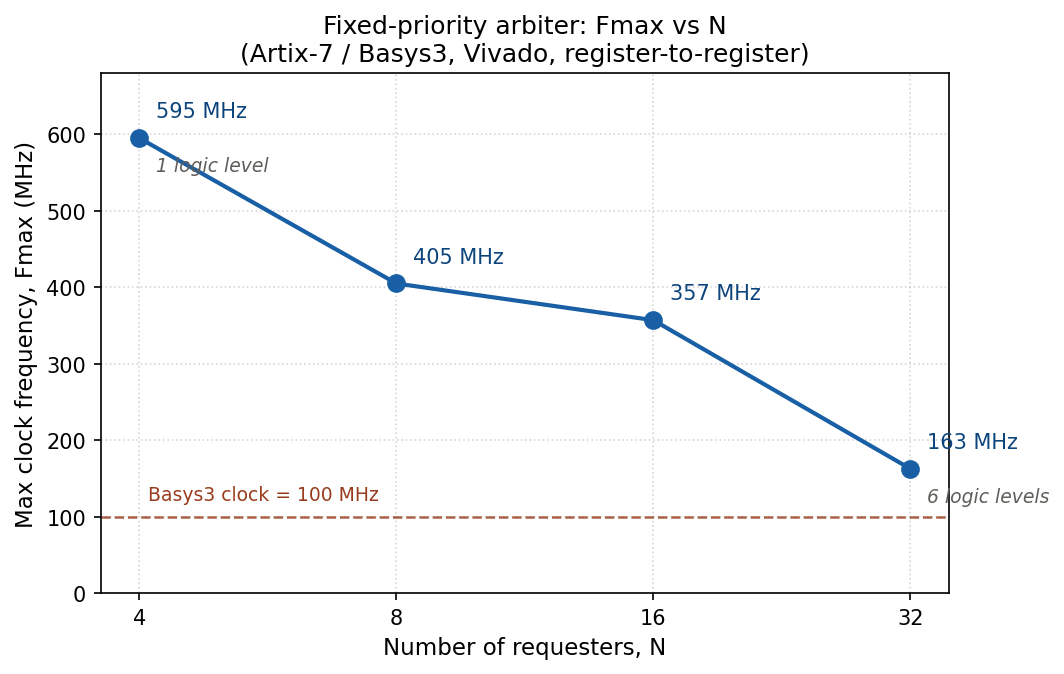
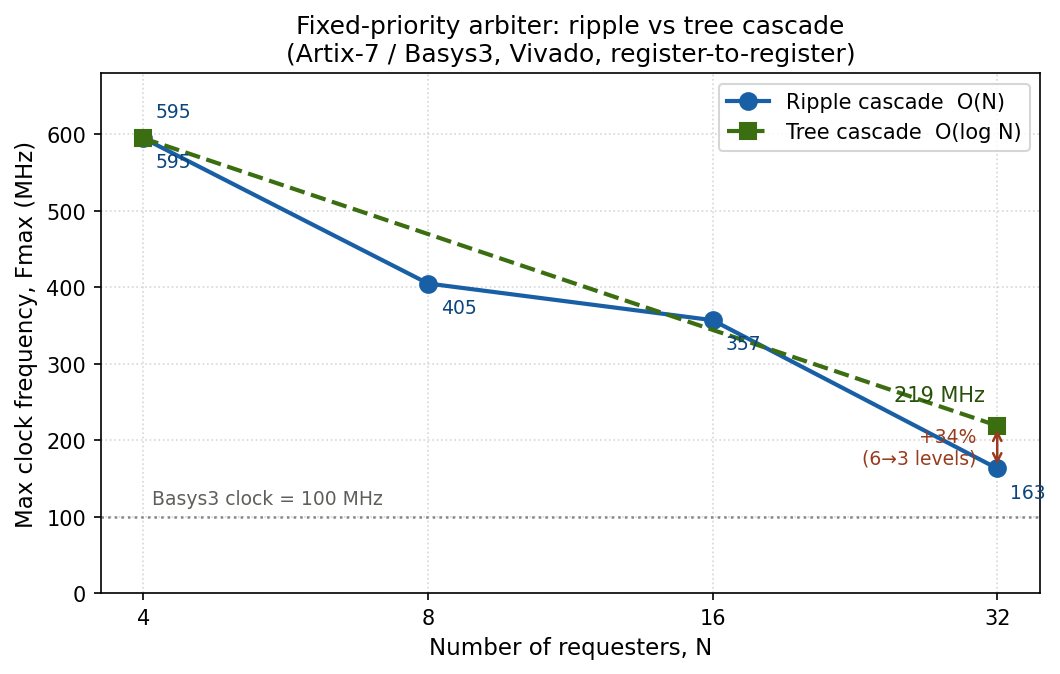
Phase 3: Kogge-Stone prefix-tree cascade (6->3 levels, +34% Fmax at N=32)

diff --git a/README.md b/README.md
@@ -1,6 +1,6 @@
 # fpga-arbiters
 
-Parameterizable hardware arbiters in SystemVerilog for the Xilinx Basys3 (Artix-7), working from a combinational fixed-priority design up to round-robin, with self-checking testbenches and real static-timing characterization.
+Parameterizable hardware arbiters in SystemVerilog for the Xilinx Basys3 (Artix-7), working from a combinational fixed-priority design up to round-robin, with self-checking testbenches, real static-timing characterization, and an O(log N) prefix-tree optimization.
 
 ![SystemVerilog](https://img.shields.io/badge/SystemVerilog-IEEE%201800-blue)
 ![Tool](https://img.shields.io/badge/tool-Vivado-orange)
@@ -12,7 +12,8 @@ Parameterizable hardware arbiters in SystemVerilog for the Xilinx Basys3 (Artix-
 
 - Parameterizable `N`-input fixed-priority arbiter (`rtl/fixed_priority_arbiter.sv`) — purely combinational.
 - Parameterizable `N`-input round-robin arbiter (`rtl/round_robin_arbiter.sv`) — reuses the fixed-priority block twice around a one-hot pointer register; fair, no starvation.
-- One-hot-or-zero grant invariant on both designs, checked automatically in the testbenches.
+- Kogge-Stone parallel-prefix variant (`rtl/fixed_priority_arbiter_tree.sv`) — O(log N) depth, exhaustively equivalence-checked against the ripple version.
+- One-hot-or-zero grant invariant on all designs, checked automatically in the testbenches.
 - Self-checking testbenches (combinational and clocked) running in Vivado XSim.
 - Static timing analysis on Artix-7 — Fmax and bandwidth characterized across N.
 
@@ -48,7 +49,7 @@ Round-robin — under constant demand (`req = 1111`) the grant rotates `r0 → r
 
 ![Round-robin arbiter waveform](docs/images/round_robin_arbiter.png)
 
-## Results — fixed-priority arbiter
+## Results
 
 Characterized on Artix-7 in Vivado by registering the I/O around the combinational arbiter and reading setup **WNS** against a 100 MHz constraint. `Fmax = 1000 / (10 − WNS)`. Full write-up: [docs/notes/03-timing-analysis.md](docs/notes/03-timing-analysis.md).
 
@@ -61,7 +62,7 @@ Characterized on Artix-7 in Vivado by registering the I/O around the combination
 
 ![Fmax vs N](docs/images/fmax_vs_n.png)
 
-Fmax falls as N grows — the O(N) priority cascade lengthening the critical path. Bandwidth (1 grant/cycle × a 32-bit word) ranges from ~19.0 Gbit/s aggregate at N=4 down to ~5.2 Gbit/s at N=32.
+Fmax falls as N grows — the O(N) priority cascade lengthening the critical path. Re-coding the cascade as an **O(log N) Kogge-Stone prefix tree** (equivalence-checked) halves the depth at N=32 (6 → 3 logic levels) and raises Fmax from 163 MHz to **219 MHz (~34%)**. Bandwidth (1 grant/cycle × a 32-bit word) ranges from ~19.0 Gbit/s aggregate at N=4 down to ~5.2 Gbit/s at N=32.
 
 **Fairness cost (N=4):** round-robin raises the critical path from 1.68 ns to 3.04 ns, cutting Fmax from ~595 MHz to ~330 MHz (~45%). The extra delay is the mask + output mux that round-robin layers on the shared cascade — fixed priority is faster but starves; round-robin is fair but slower.
 
@@ -69,14 +70,14 @@ Fmax falls as N grows — the O(N) priority cascade lengthening the critical pat
 
 **Vivado GUI**
 1. Add `rtl/` as design sources and `tb/` as simulation sources.
-2. Set the testbench you want to run (`tb_fixed_priority_arbiter` or `tb_round_robin_arbiter`) as the simulation-set top.
+2. Set the testbench you want to run as the simulation-set top (e.g. `tb_round_robin_arbiter`, `tb_arbiter_equiv`).
 3. Flow Navigator -> Run Simulation -> Run Behavioral Simulation.
 
 **Command line (Vivado XSim)** — from a shell with Vivado on your `PATH`:
 
 ```bash
 cd sim
-./run_xsim.sh tb_round_robin_arbiter   # or tb_fixed_priority_arbiter
+./run_xsim.sh tb_round_robin_arbiter   # or tb_fixed_priority_arbiter, tb_arbiter_equiv
 ```
 
 A clean run prints the per-cycle grant table with no `$error` lines.
@@ -84,7 +85,7 @@ A clean run prints the per-cycle grant table with no `$error` lines.
 ## Repository layout
 
 ```
-rtl/           synthesizable design sources (+ timing harness)
+rtl/           synthesizable design sources (+ timing harnesses)
 tb/            testbenches / verification
 constraints/   XDC pin & timing files
 sim/           simulation scripts (XSim batch)
@@ -97,13 +98,14 @@ docs/images/   waveform screenshots, diagrams, plots
 
 - [x] Phase 1 — Fixed-priority arbiter + self-checking testbench
 - [x] Phase 2 — Round-robin arbiter (fairness, no starvation)
-- [x] Phase 3 — Timing report (Fmax, critical path) + bandwidth analysis
-- [ ] Phase 4 — Basys3 demo (clock divider, LEDs / 7-segment)
-- [ ] Phase 5 — O(log N) tree cascade, weighted round-robin, matrix arbiter, interview drills
+- [x] Phase 3 — Timing + bandwidth analysis, and an O(log N) Kogge-Stone tree cascade (6 → 3 logic levels, ~34% higher Fmax at N=32)
+- [ ] Phase 4 — Basys3 hardware demo (clock divider, live LEDs / 7-segment)
+
+Possible future extensions: weighted round-robin, matrix arbiter.
 
 ## Status
 
-In progress. Phases 1–3 complete: both arbiters verified in simulation and characterized on Artix-7 via static timing analysis. Fixed-priority Fmax ranges from ~595 MHz (N=4) down to ~163 MHz (N=32); round-robin trades ~45% of that frequency at N=4 (~330 MHz) for starvation-free fairness (full write-up in [docs/notes/03-timing-analysis.md](docs/notes/03-timing-analysis.md)). Next: an O(log N) tree-restructured cascade and a Basys3 hardware demo.
+In progress. Phases 1–3 complete: fixed-priority and round-robin arbiters verified in simulation and characterized on Artix-7 via static timing analysis (fixed-priority Fmax ~595 MHz at N=4 to ~163 MHz at N=32; round-robin trades ~45% frequency for starvation-free fairness), plus a Kogge-Stone prefix-tree variant that restores ~34% of the Fmax lost to the O(N) cascade at N=32. Next: Phase 4 — a live demo on the Basys3 board.
 
 ## License
 

diff --git a/docs/notes/03-timing-analysis.md b/docs/notes/03-timing-analysis.md
@@ -100,8 +100,17 @@ pointer-loop path. Both are valid "how fast can I clock this block" numbers, but
 the path structures differ; a perfectly clean comparison would wrap both the
 same way.
 
-## Next
-- **Optimization:** re-code the ripple cascade as a balanced **tree** (O(log N)
-  depth instead of O(N)) and re-measure — the logic-level count, and the Fmax
-  drop at large N, should shrink substantially. Same lesson as ripple-carry vs
-  carry-lookahead adders, proven with measured numbers.
+## Ripple vs tree cascade
+Re-coding the ripple prefix-OR as a **Kogge-Stone parallel-prefix tree**
+(O(log N) depth instead of O(N)) — and proving it functionally identical to the
+ripple with an exhaustive equivalence check — cuts the critical path at large N:
+
+| N = 32         | WNS (ns) | Min period (ns) | Fmax (MHz) | Logic levels |
+|----------------|----------|-----------------|------------|--------------|
+| Ripple cascade | 3.848    | 6.152           | 163        | 6            |
+| Tree cascade   | 5.440    | 4.560           | 219        | 3            |
+
+Halving the logic depth (6 → 3) raised Fmax ~34% (163 → 219 MHz) with no change
+in function. At N=4 the two are identical (both 1 LUT level) — the tree only
+pays off once the cascade is deep enough to matter. Same idea as carry-lookahead
+vs ripple-carry, proven with measured numbers.